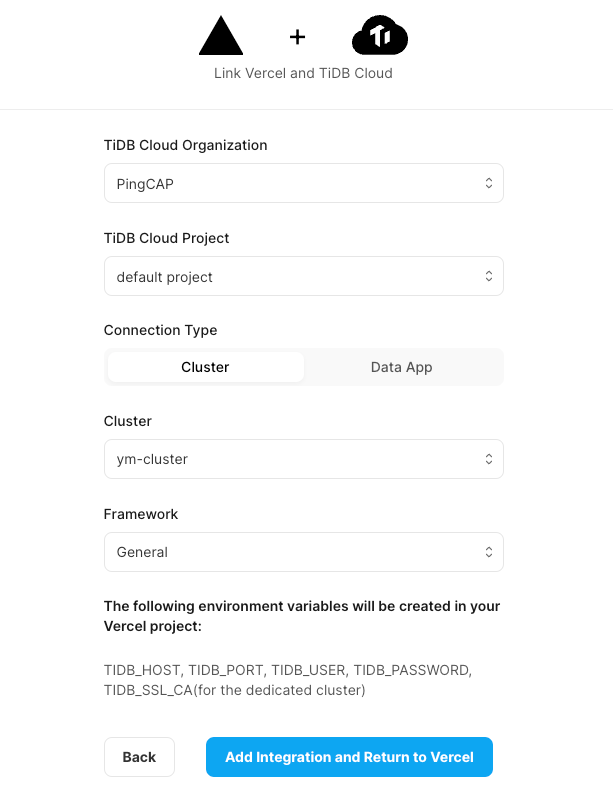
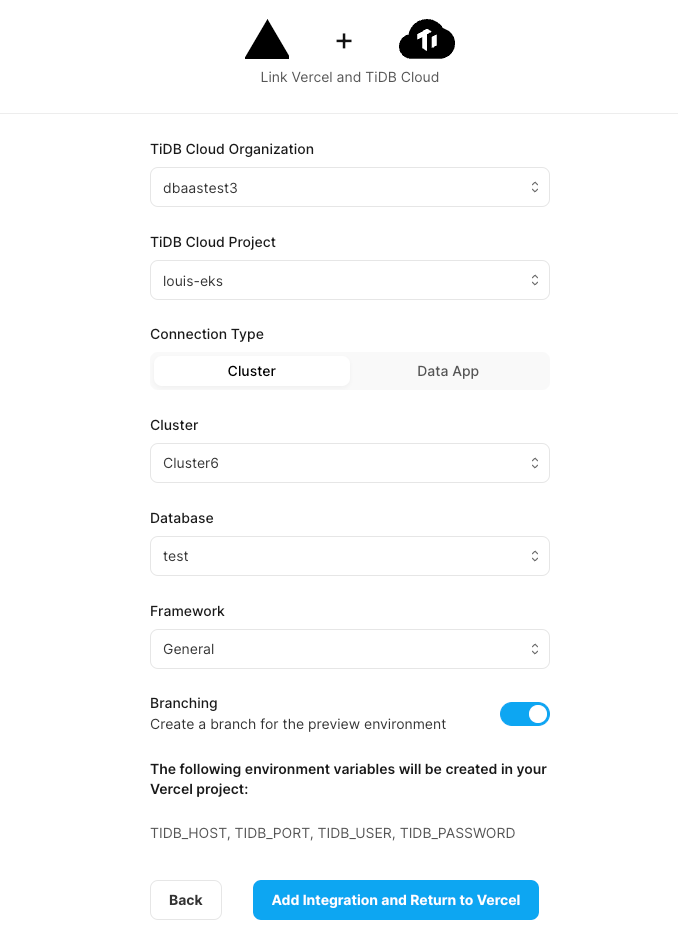
Add pics

diff --git a/tidb-cloud/integrate-tidbcloud-with-vercel.md b/tidb-cloud/integrate-tidbcloud-with-vercel.md
@@ -227,15 +227,24 @@ After you push changes to GitHub repository, Vercel will trigger a preview deplo
 
 1. Create a new branch in your Git repository.
 
-```shell
-cd tidb-prisma-vercel-demo1
-git checkout -b new-branch
-```
+    ```shell
+    cd tidb-prisma-vercel-demo1
+    git checkout -b new-branch
+    ```
 
 2. Add some changes and push the changes to the remote repository.
 3. Vercel will trigger a preview deployment for the new branch.
+
+    ![Vercel Preview_Deployment](/media/tidb-cloud/vercel/vercel-preview-deployment.png)
+
     a. During the deployment, TiDB Cloud integration will automatically create a TiDB Serverless branch, of which the name is the same as the git branch name. If the TiDB Serverless branch already exists, TiDB Cloud integration will skip this step.
+
+    ![TiDB_Cloud_Branch_Check](/media/tidb-cloud/vercel/tidbcloud-branch-check.png)
+
     b. After the TiDB Serverless branch is ready, TiDB Cloud integration will set environment variables in the preview deployment for the Vercel project.
+
+    ![Preview_Envs](/media/tidb-cloud/vercel/preview-envs.png)
+
     c. TiDB Cloud integration will also register a blocking check to wait for the TiDB Serverless branch to be ready. You can rerun the check manually.
 4. After the check is passed, you can visit the preview deployment to see the changes.
 
